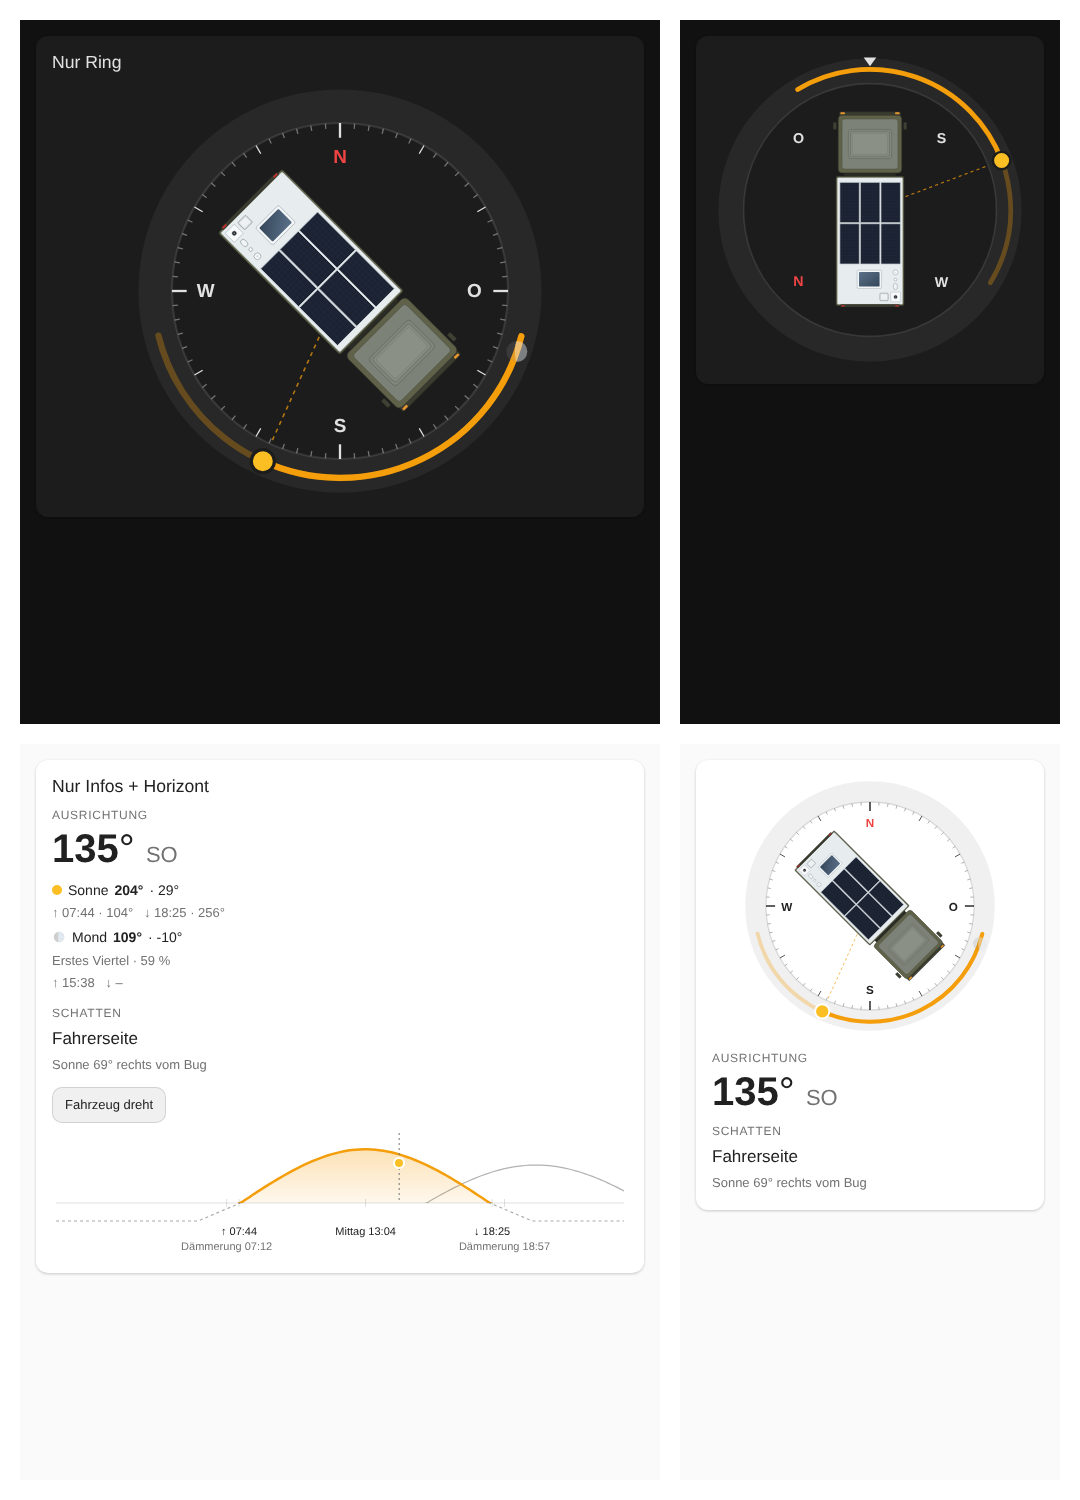
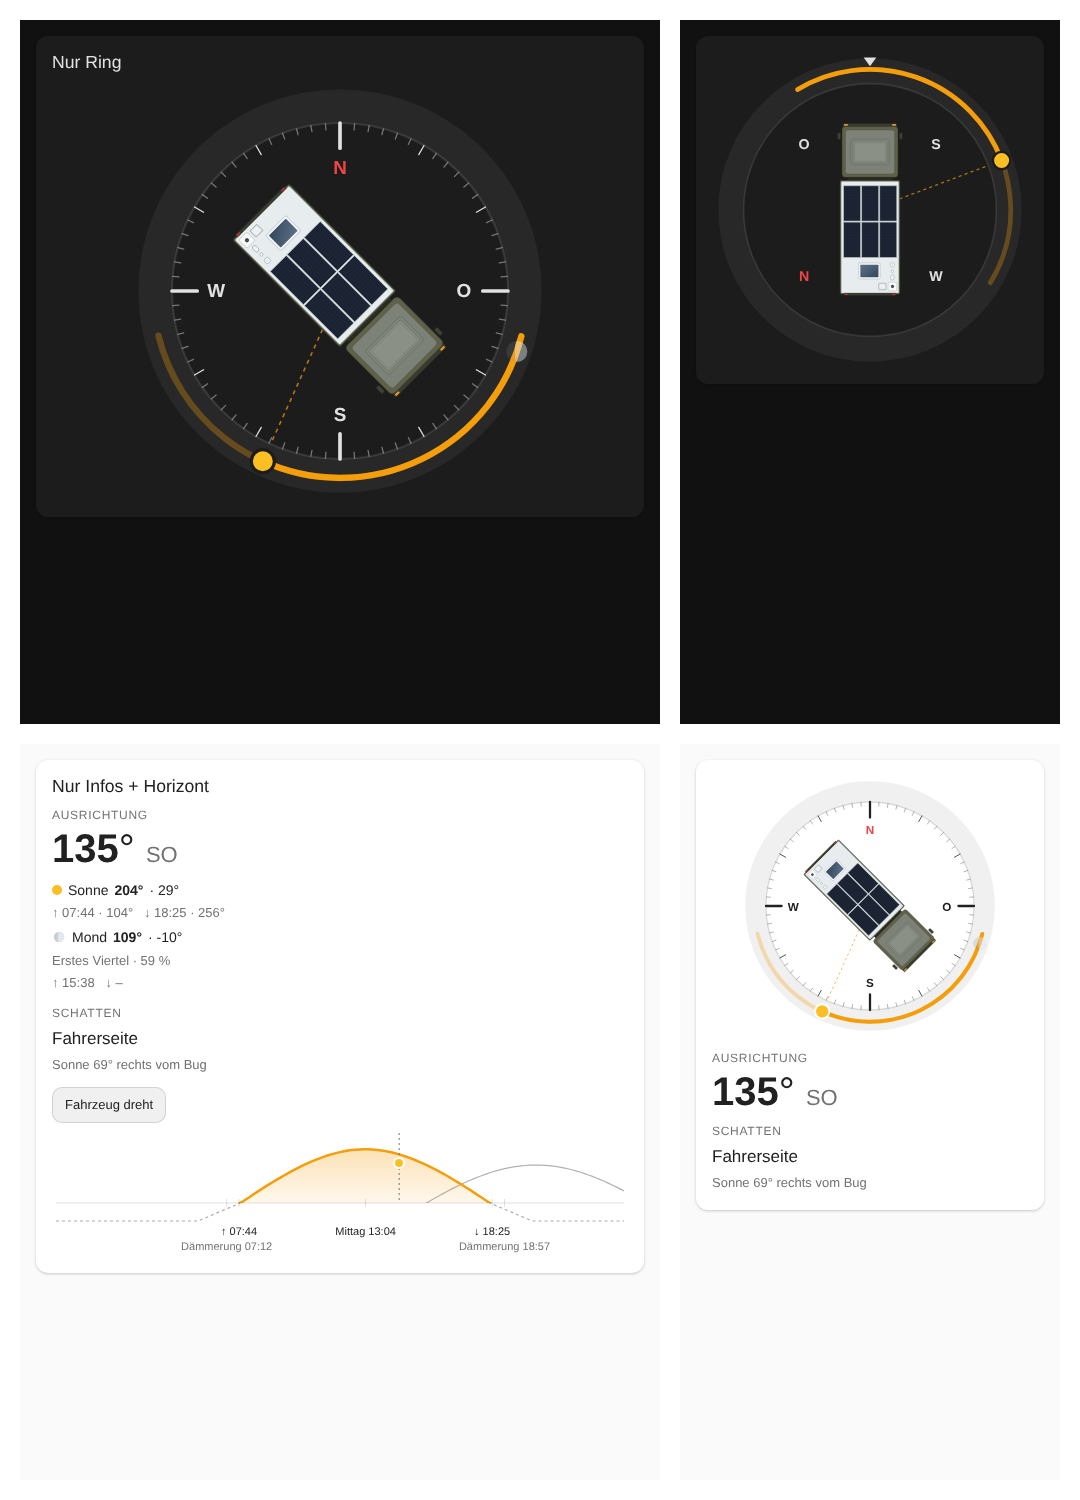
Skala außen mit langen Hauptstrichen, Himmelsrichtungen innen (openHASP + Karte 0.4.3)
Claude-Session: https://claude.ai/code/session_013DCenfRdCFAbqtyfTagYZP

diff --git a/custom_components/ha_compass/www/ha-compass-card.js b/custom_components/ha_compass/www/ha-compass-card.js
@@ -3,7 +3,7 @@
  * Teil von HA-Compass (Apache-2.0). Sonnen-/Mondberechnung: SunCalc-Port
  * (BSD-2-Clause, © 2014 Vladimir Agafonkin) – siehe NOTICE.
  */
-const CARD_VERSION = "0.4.2";
+const CARD_VERSION = "0.4.3";
 
 /* ------------------------------------------------------------ Astronomie (SunCalc) */
 const RAD = Math.PI / 180, DAY_MS = 86400000, J1970 = 2440588, J2000 = 2451545, E = RAD * 23.4397;
@@ -278,12 +278,12 @@ class HaCompassCard extends HTMLElement {
     };
     let ticks = "";
     for (let d = 0; d < 360; d += 5) {
-      const L = d % 90 === 0 ? 14 : d % 30 === 0 ? 9 : 5;
+      const L = d % 90 === 0 ? 24 : d % 30 === 0 ? 10 : 6;
       const [x1, y1] = pt(d, R), [x2, y2] = pt(d, R - L);
-      ticks += `<line x1="${x1.toFixed(1)}" y1="${y1.toFixed(1)}" x2="${x2.toFixed(1)}" y2="${y2.toFixed(1)}" class="${d % 30 === 0 ? "tk" : "tm"}" stroke-width="${d % 90 === 0 ? 2.2 : 1.2}"/>`;
+      ticks += `<line x1="${x1.toFixed(1)}" y1="${y1.toFixed(1)}" x2="${x2.toFixed(1)}" y2="${y2.toFixed(1)}" class="${d % 30 === 0 ? "tk" : "tm"}" stroke-width="${d % 90 === 0 ? 3.5 : 1.2}" stroke-linecap="round"/>`;
     }
     const labels = t.cardinals.map((l, i) => {
-      const [x, y] = pt(i * 90, R - 32);
+      const [x, y] = pt(i * 90, R - 42);
       return `<text x="${x.toFixed(1)}" y="${y.toFixed(1)}" class="${i === 0 ? "north" : "card"}" transform="rotate(${-ringRot} ${x.toFixed(1)} ${y.toFixed(1)})">${l}</text>`;
     }).join("");
 
@@ -307,7 +307,7 @@ class HaCompassCard extends HTMLElement {
     }
     const veh = this._config.vehicle_image
       ? `<image href="${this._config.vehicle_image}" x="-60" y="-120" width="120" height="240" preserveAspectRatio="xMidYMid meet"/>`
-      : `<g transform="scale(${(250 / 711).toFixed(4)}) translate(-122.5 -349.5)">${VEHICLE_SVG}</g>`;
+      : `<g transform="scale(${(220 / 711).toFixed(4)}) translate(-122.5 -349.5)">${VEHICLE_SVG}</g>`;
 
     const compass = `
 <svg class="compass${cfg.tap_action === "none" ? " notap" : ""}" style="${cfg.compass_size ? `max-width:${cfg.compass_size}px` : ""}" viewBox="0 0 400 400" role="img" aria-label="${t.heading} ${fmt(heading)}°">

diff --git a/openhasp/generate.py b/openhasp/generate.py
@@ -12,7 +12,8 @@ P = int(sys.argv[2]) if len(sys.argv) > 2 else 9
 HEADING = "sensor.camper_kompass_ausrichtung_geografisch"
 VIEW = "select.ha_compass_ansicht"
 CX, CY = 180, 237          # Kompassmitte
-R_TICK, R_LBL, R_SUN = 145, 122, 160
+R_TICK, R_LBL, R_SUN = 145, 108, 160
+VEH_ZOOM = 232            # 256 = 100 %; Fahrzeug ~178 px lang
 BG, CARD, FG, SUB, AMBER, MOON = "#2C3E50", "#1F2A36", "#FFFFFF", "#B7C9D8", "#F59E0B", "#CBD5E1"
 
 
@@ -63,9 +64,17 @@ obj(1, obj="img", src="L:/terminal01-bg.png", auto_size=1, h=480, w=480, zoom=25
 # Scheibe + Skala
 obj(2, obj="obj", x=CX - R_TICK, y=CY - R_TICK, w=2 * R_TICK, h=2 * R_TICK, radius=R_TICK,
     bg_color=CARD, border_width=2, border_color="#3C5268", click=0)
-obj(3, obj="linemeter", x=CX - R_TICK + 2, y=CY - R_TICK + 2, w=2 * R_TICK - 4, h=2 * R_TICK - 4,
-    angle=360, line_count=72, min=0, max=100, val=100, scale_width=8, line_width=2,
-    line_color=SUB, scale_end_color=SUB, scale_grad_color=SUB, bg_opa=0, border_width=0, click=0)
+# Skala ganz außen: 72 Feinstriche (5°) + 4 lange Hauptstriche (N/O/S/W), drehen im Modus „Ring dreht“ mit
+obj(3, obj="linemeter", x=CX - R_TICK, y=CY - R_TICK, w=2 * R_TICK, h=2 * R_TICK,
+    angle=360, line_count=73, min=0, max=100, val=100, scale_width=9, line_width=2,
+    line_color=SUB, scale_end_color=SUB, scale_grad_color=SUB, scale_end_line_width=2,
+    bg_opa=0, border_width=0, pad_top=0, pad_bottom=0, pad_left=0, pad_right=0, click=0)
+bind(3, {"rotation": J_ROT + "{{ (rot % 360)|round|int }}"})
+obj(5, obj="linemeter", x=CX - R_TICK, y=CY - R_TICK, w=2 * R_TICK, h=2 * R_TICK,
+    angle=360, line_count=5, min=0, max=100, val=100, scale_width=20, line_width=4,
+    line_color=FG, scale_end_color=FG, scale_grad_color=FG, scale_end_line_width=4,
+    bg_opa=0, border_width=0, pad_top=0, pad_bottom=0, pad_left=0, pad_right=0, click=0)
+bind(5, {"rotation": J_ROT + "{{ (rot % 360)|round|int }}"})
 
 # Sonnenbahn (Hintergrund = Tagesbogen, Indikator = bisheriger Verlauf)
 obj(4, obj="arc", x=CX - R_SUN, y=CY - R_SUN, w=2 * R_SUN, h=2 * R_SUN, start_angle=14, end_angle=166,
@@ -86,11 +95,11 @@ for i, (az, t) in enumerate(((0, "N"), (90, "O"), (180, "S"), (270, "W"))):
     oid = 10 + i
     a = math.radians(az)
     obj(oid, obj="label", x=round(CX + R_LBL * math.sin(a) - 13), y=round(CY - R_LBL * math.cos(a) - 13),
-        w=26, h=26, text=t, align=1, text_font=20, text_color="#EF4444" if t == "N" else FG, bg_opa=0, click=0)
+        w=26, h=26, text=t, align=1, text_font=25, text_color="#EF4444" if t == "N" else FG, bg_opa=0, click=0)
     bind(oid, {"x": j_xy(str(az), R_LBL, 26, "x"), "y": j_xy(str(az), R_LBL, 26, "y")})
 
 # Fahrzeug
-obj(20, obj="img", src="L:/nx01.png", x=CX - 98, y=CY - 98, w=196, h=196, zoom=256, angle=0, click=0)
+obj(20, obj="img", src="L:/nx01.png", x=CX - 98, y=CY - 98, w=196, h=196, zoom=VEH_ZOOM, angle=0, click=0)
 bind(20, {"angle": J_H + f"{{{{ (h*10)|round|int if is_state('{VIEW}','fahrzeug_dreht') else 0 }}}}"})
 
 # Bug-Markierung im Modus „Ring dreht“
